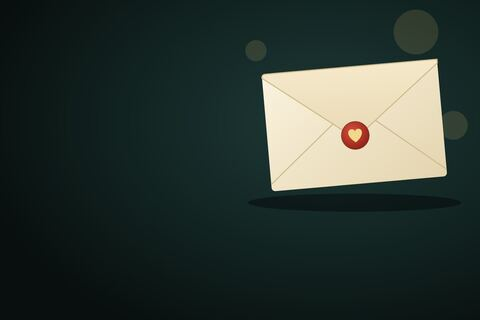
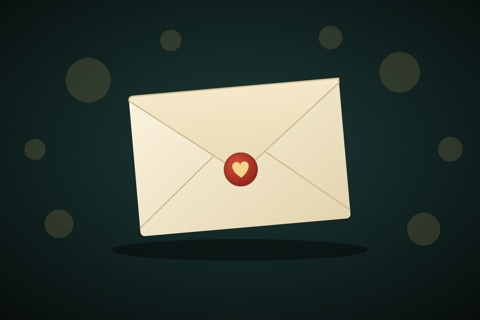
v6.64.1: Gutscheine: Illustrationen mittig neu gezeichnet, Hinweis auf der QR-Seite
- Motive Geburtstag, Jubiläum und Brief mittig, etwas größer, mit Glanz und Konfetti bzw. Sternen rundherum
- QR-Seite: Hinweis für das Team unter dem Einlöse-Formular (Teilbeträge möglich, keine Barauszahlung)

diff --git a/order/gutschein_karte.php b/order/gutschein_karte.php
@@ -59,6 +59,7 @@ gv_page_head('Gutschein', 'gv-karte');
 			<input id="gk-amount" name="amount" type="text" inputmode="decimal" maxlength="8" placeholder="z. B. 12,50"/>
 			<button type="submit" name="mode" value="part" class="cart-go is-alt">Teilbetrag einlösen</button>
 		</form>
+		<p class="gv-hint">Teilbeträge sind möglich, der Rest bleibt auf dem Gutschein. Eine Barauszahlung gibt es nicht.</p>
 		<?php endif; ?>
 	<?php endif; ?>
 	</main>

diff --git a/web/main_page.php b/web/main_page.php
@@ -23,7 +23,7 @@ This file is part of mySeat.
 /** Login **/
 // ** set configuration
 	//Software version - http://github.com/apmuthu/myseat
-	$sw_version = 'v6.64.0';
+	$sw_version = 'v6.64.1';
 	
 	include('../config/config.general.php');
 	
